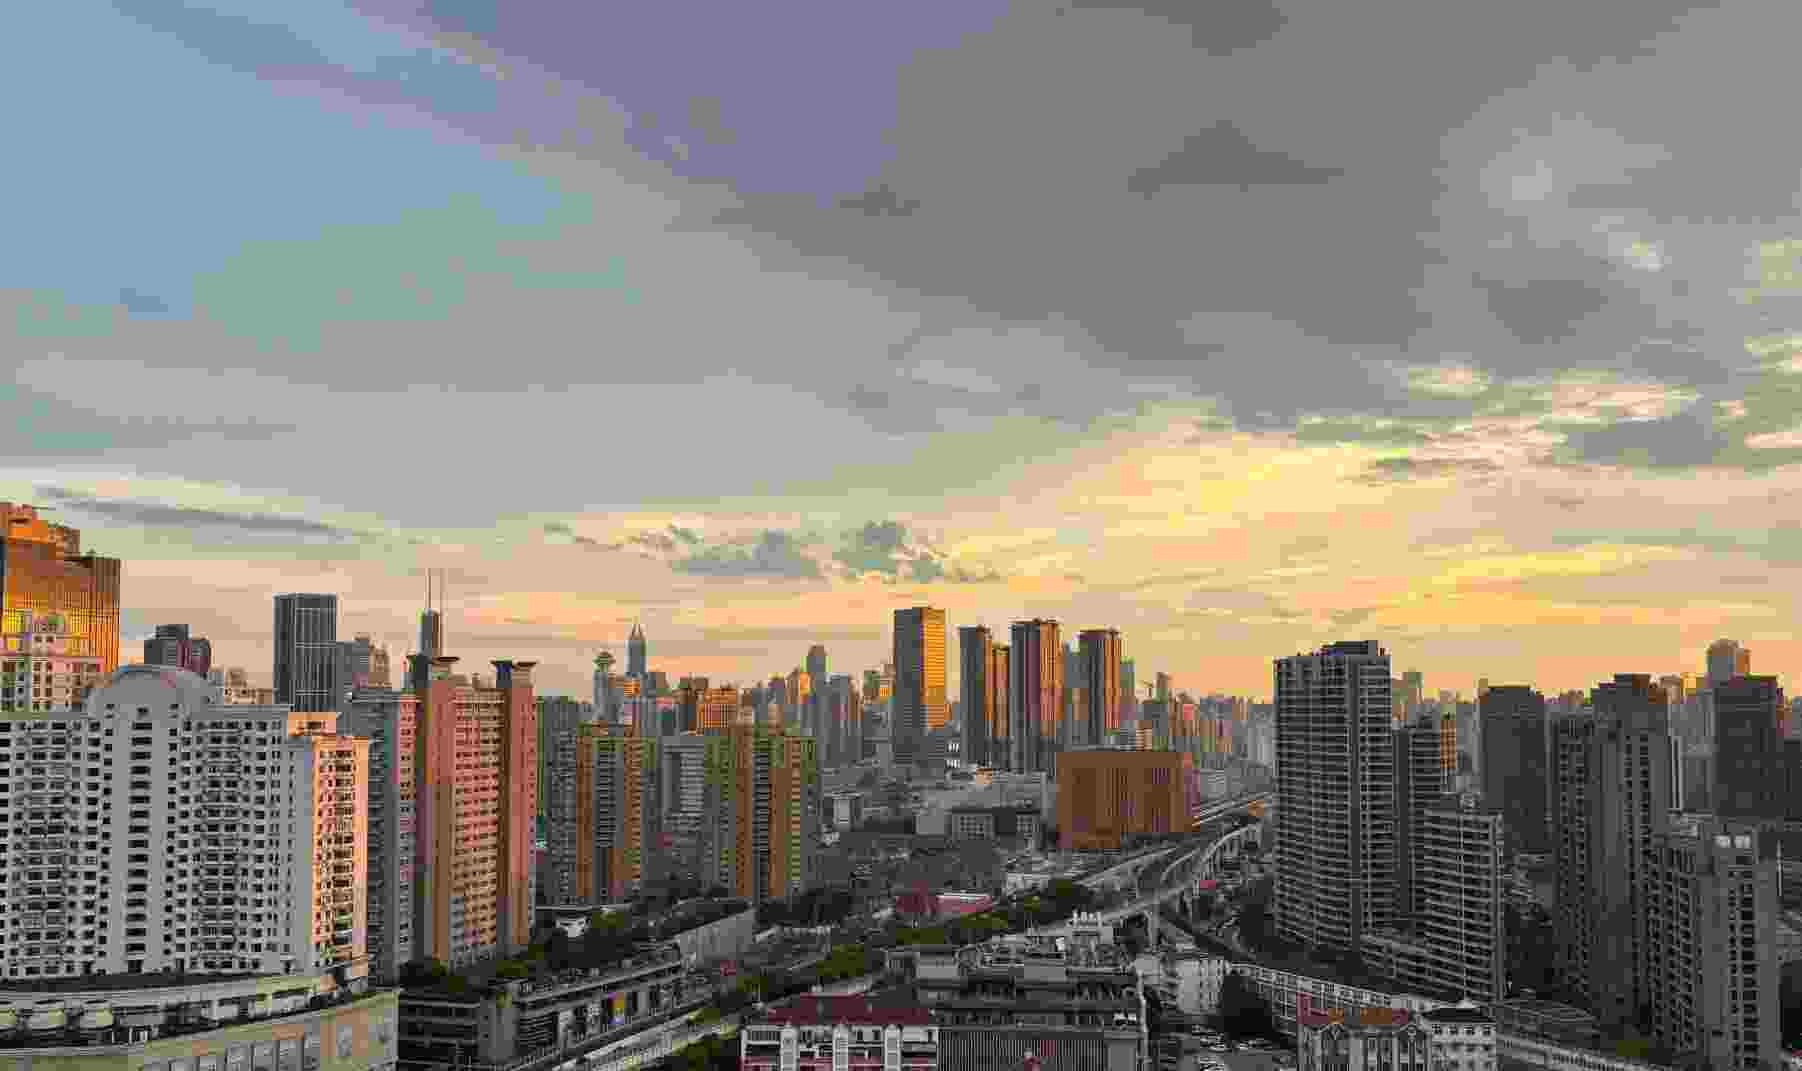
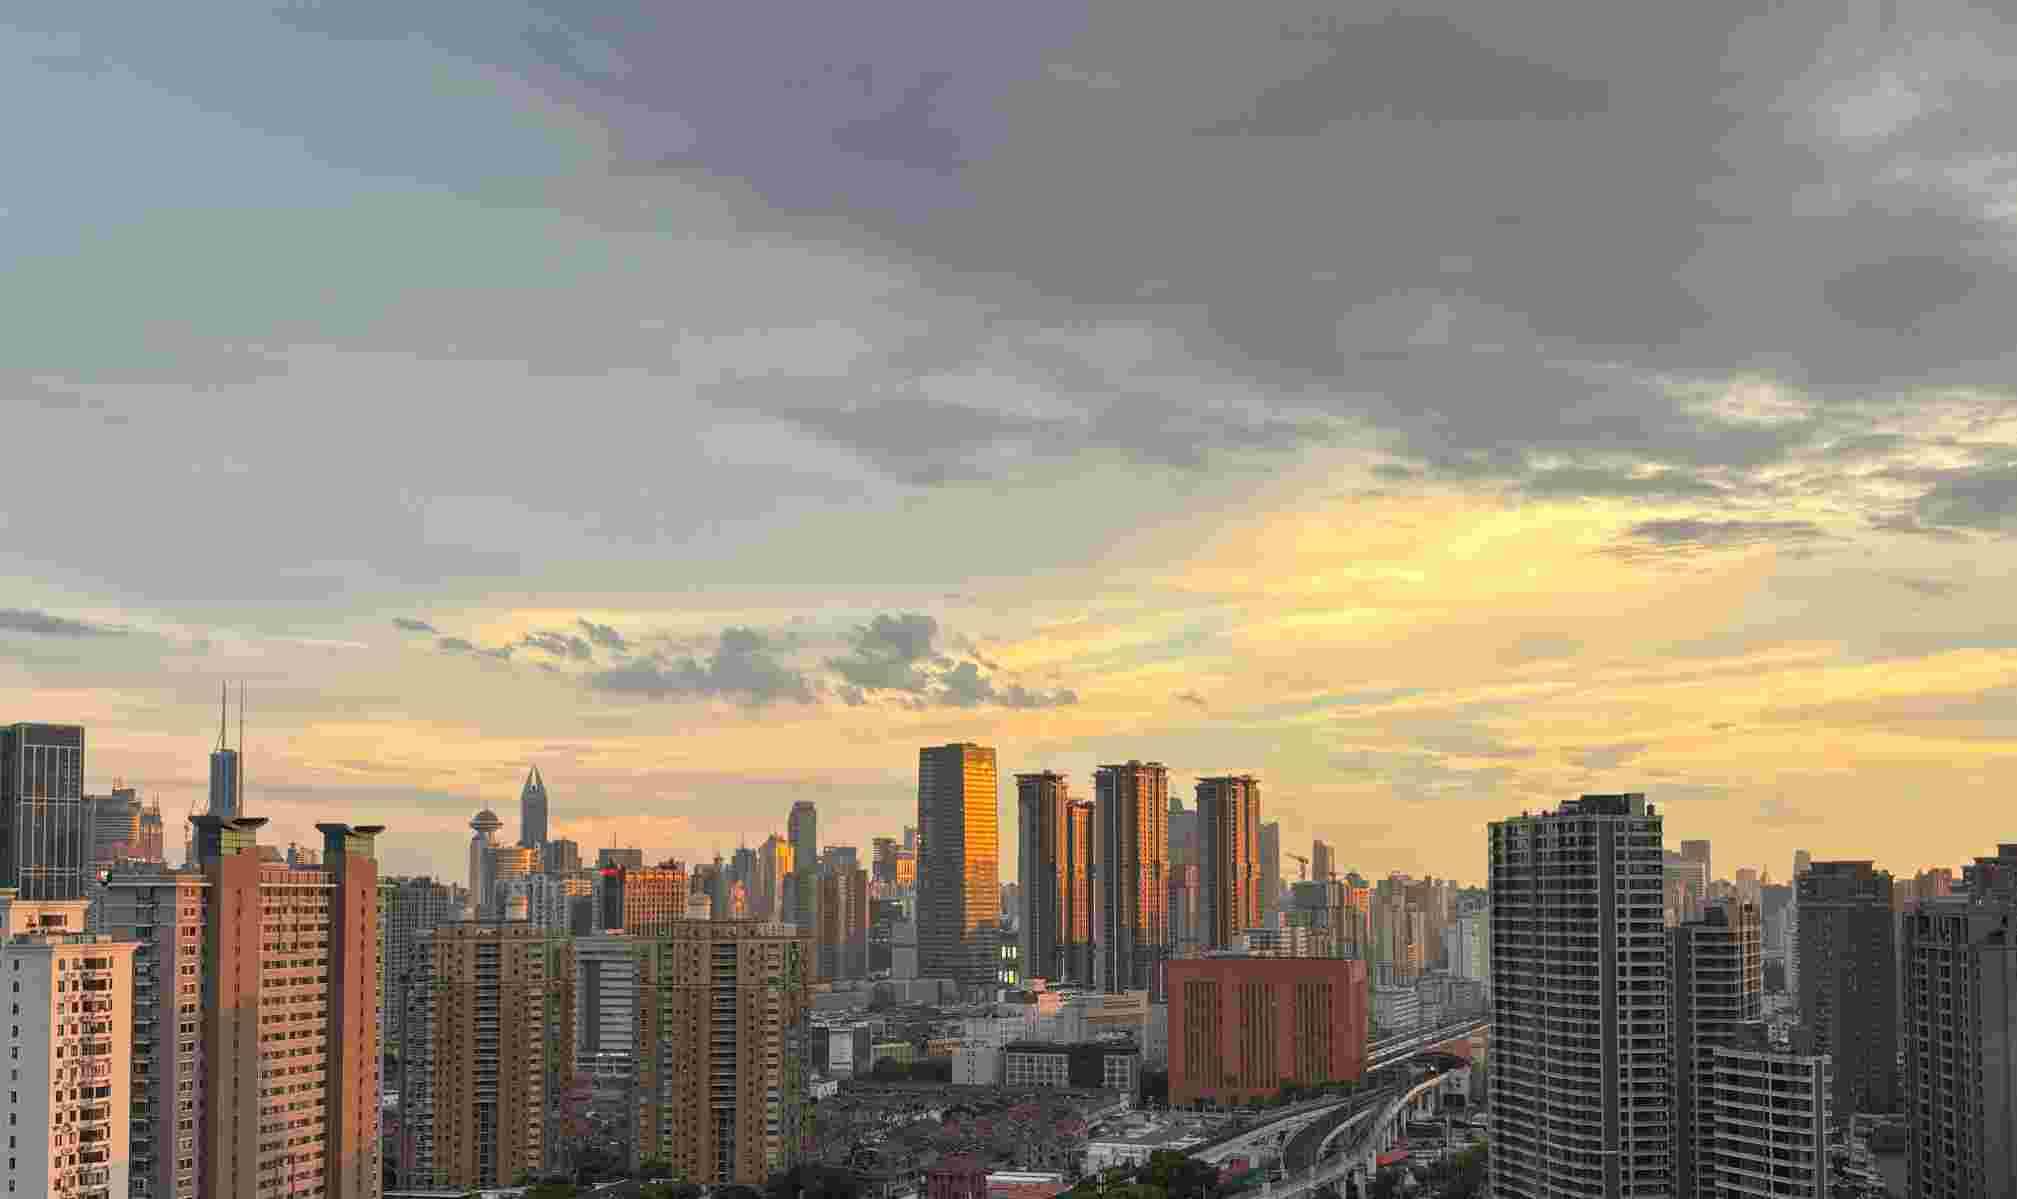
css html update

diff --git a/index.html b/index.html
@@ -3,20 +3,24 @@
 <head>
     <meta charset="UTF-8">
     <meta name="viewport" content="width=device-width, initial-scale=1.0">
-    <title>奖金计算</title>
+    <title>金额计算器</title>
 
     <script src="script.js" defer></script>
     <link rel="stylesheet" href="styles.css">
 </head>
 <body>
     <main>
-        <h1>奖金计算</h1>
+        <h1>金额计算器</h1>
         <form id="destinations_details_form">
-            <label for="name">员工名称：</label>
-            <input type="text" id="name" placeholder="请填写员工的名字" required>
+            <label for="classes">选择一个组别</label>
+            <select id="classes" name="classes">
+            <option value="classA" selected>A组</option>
+            <option value="classB">B组</option>
+            <option value="classC">C组</option>
+            </select>
 
-            <label for="location">她的营业额：</label>
-            <input type="number" id="location" placeholder="她这个月赚了多少钱" required>
+            <label for="location">营业额：</label>
+            <input type="number" id="location" placeholder="这个组总赚金额" required>
 
             <label for="photo">成本</label>
             <input type="number" id="photo" placeholder="此月成本(默认5万)">
@@ -26,8 +30,8 @@
         </form>
 
         <div>
-            <h4>她的奖金为：</h4>
-            <p>此处会显示她的奖金</p>
+            <h4>此组奖金为：</h4>
+            <p>此处会显示奖金额</p>
         </div>
     </main>
 </body>

diff --git a/styles.css b/styles.css
@@ -6,6 +6,7 @@ body {
     height: 100vh;
     margin: 0;
     background-image: url("images/scenery_min.jpg");
+    /* background-image: url("images/scenery.jpg"); */
     background-size: cover;
     background-position: center;
     background-repeat: no-repeat;
